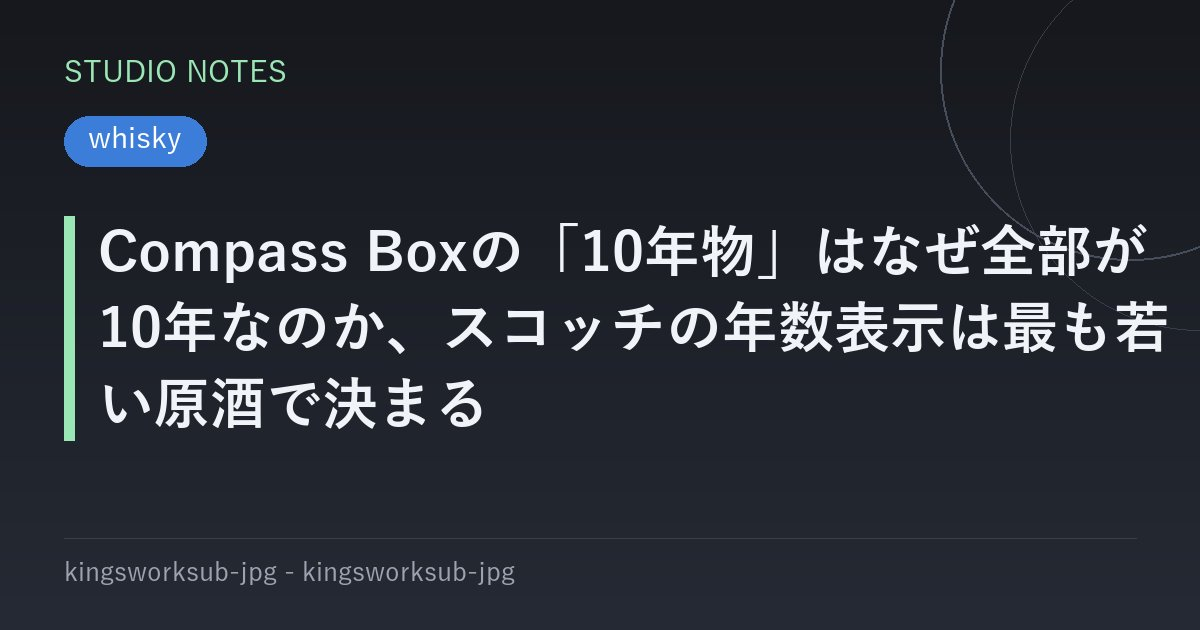
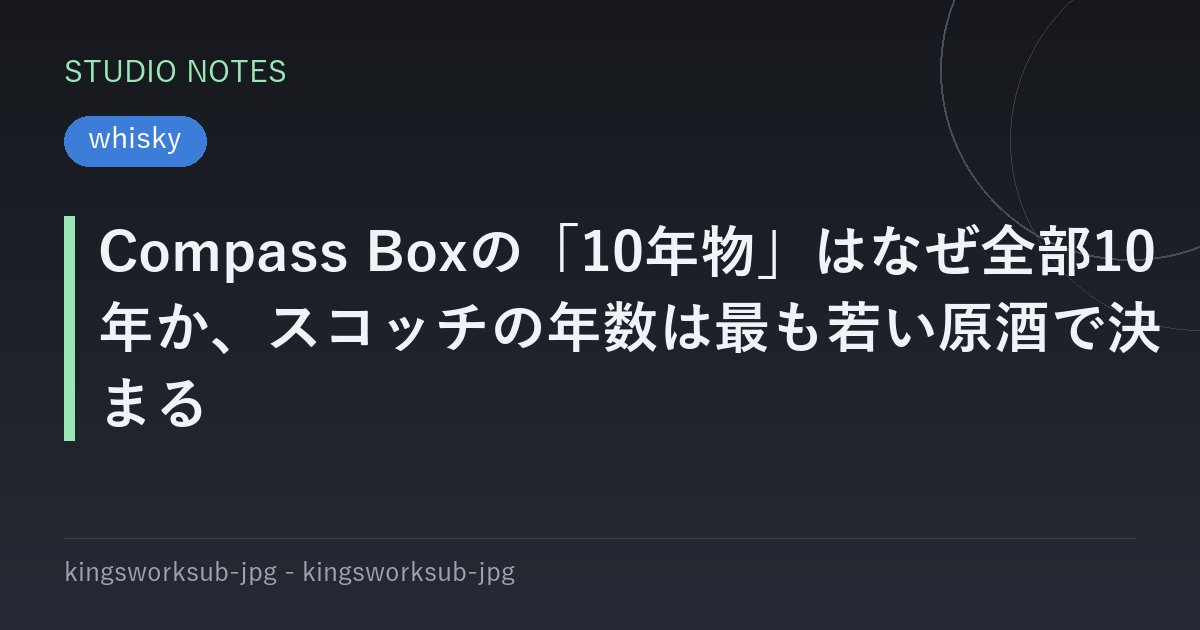
Shorten title of compass-box-10-year-age-statement-2026 for Ameba

Changed region(s): [[0.0617, 0.4825, 0.9867, 0.573], [0.0617, 0.6032, 0.4008, 0.6937], [0.8942, 0.3619, 0.9867, 0.4524]]

diff --git a/content/posts/compass-box-10-year-age-statement-2026.md b/content/posts/compass-box-10-year-age-statement-2026.md
@@ -1,5 +1,5 @@
 ---
-title: "Compass Boxの「10年物」はなぜ全部が10年なのか、スコッチの年数表示は最も若い原酒で決まる"
+title: "Compass Boxの「10年物」はなぜ全部10年か、スコッチの年数は最も若い原酒で決まる"
 description: "Compass Boxが2026年に出した『This is a 10-Year-Old Whisky』は原酒がすべて10年熟成。最も若い原酒の年数しか書けないスコッチの規則と2015年の騒動、50.5%の加水の目安を数字で整理する。"
 images: ["/images/og/compass-box-10-year-age-statement-2026.jpg"]
 ogImageWidth: 1200
